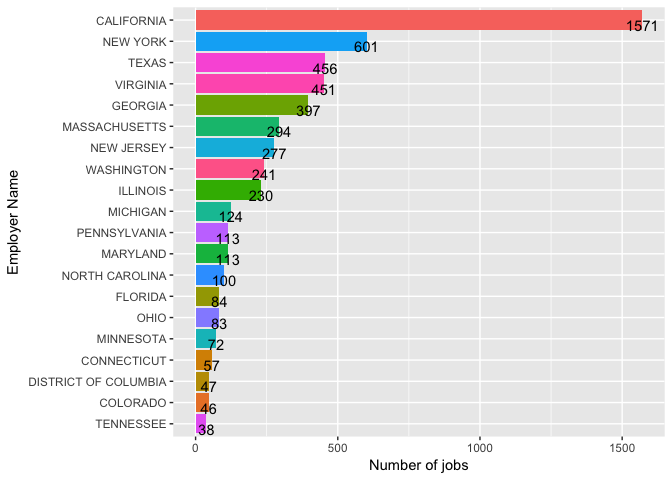
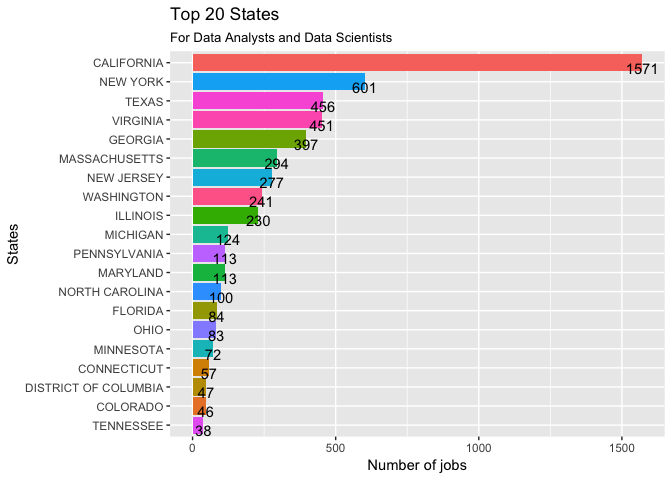
Cleaning up the graphs

diff --git a/H1B.md b/H1B.md
@@ -1,21 +1,21 @@
 H1b Visa
 ================
-2018-01-22
+2018-01-23
 
 A closer look at the H1b visa applications from 2011 to 2016. This is an interesting data set today because of all the talk of cutting back on the number of H1b visas that will be allowed in the upcoming years. Thought this document I will explore the 3002458 rows in this data set.
 
 because this is such a large data set I want to take the time to test the read times between read.csv with stringAsFactors = FALSE and read\_csv from the readr package.
 
     ##    user  system elapsed 
-    ##   8.108   0.352   8.487
+    ##   7.999   0.435   8.821
 
 3002458 rows read\_csv read the 469 MB file into R in under 8 seconds, it also shows the data types meaning I can avoid having to call str(). It takes the standard read.csv 49.353 seconds, this over a 5X speed increase.
 
-Before looking at the data I would like to better understand the process a H1b applicant must take to work in the United States. I found this infographic from (<http://www.immi-usa.com/h1b-application-process-step-by-step-guide/>).
+Before looking at the data I would like to better understand the process a H1b applicant must take to work in the United States. I found this info-graphic from (<http://www.immi-usa.com/h1b-application-process-step-by-step-guide/>).
 
 ![Caption for the picture.](H1B-Application-Process.png)
 
-This dataset is from the website Kaggle.com that being said the data may not be 100 percent correct. Reading the forums on the kaggle website one field I and other found challenging is what does certified- withdrawn, withdrawn , certified and certified withdrawn mean?
+This data set is from the website Kaggle.com that being said the data may not be 100 percent correct. Reading the forums on the kaggle website one field I and other found challenging is what does certified- withdrawn, withdrawn , certified and certified withdrawn mean?
 The metadata says
 **"The CASE\_STATUS field denotes the status of the application after LCA processing. Certified applications are filed with USCIS for H-1B approval. CASE\_STATUS: CERTIFIED does not mean the applicant got his/her H-1B visa approved, it just means that he/she is eligible to file an H-1B"**
 
@@ -37,21 +37,21 @@ ggplot(status, aes(x = reorder(CASE_STATUS, status),
                                 y = status, fill = CASE_STATUS)) + 
                       geom_bar(stat = "identity")  +
                       geom_text(aes(label = status), vjust = 1, hjust = .5) + 
-                      labs(x = "Status", y = "percentage)") +  
+                      labs(x = "Status", y = "Percentage", title = "Case Status") +  
                       theme(legend.position = "none") +
                       coord_flip()
 ```
 
 ![](H1B_files/figure-markdown_github-ascii_identifiers/unnamed-chunk-3-1.png)
 
-87.1 percent of applicants got a certified status from 2011 to 2016. This means that 87.1 percent were told by a company that they would sponcer them if they applied for a visa.
+87.1 percent of applicants got a certified status from 2011 to 2016. This means that 87.1 percent were told by a company that they would sponsor them if they applied for a visa.
 
 I would like to see the top 20 companies that are sponsoring H1B visas.
 ![](H1B_files/figure-markdown_github-ascii_identifiers/unnamed-chunk-4-1.png)
 
 This is the top only the top so making up 18.55 percent of all the employers with H1b applicants.
 
-Lets take a look at where the most H1Bs would working. ![](H1B_files/figure-markdown_github-ascii_identifiers/unnamed-chunk-5-1.png)
+Lets take a look at where the most H1B would working. ![](H1B_files/figure-markdown_github-ascii_identifiers/unnamed-chunk-5-1.png)
 
 Here we can see that the top 3 states California, New York and Texas, are also the states with the largest populations and the largest state GDP in the United States.
 
@@ -59,7 +59,7 @@ Here we can see that the top 3 states California, New York and Texas, are also t
 
 Looking at the cities that are in the top 20 it is the same the largest population in the USA is New York, Houston is number 4 and San Francisco is number 14. The top 5 states New York, Houston, San Francisco, Atlanta and Chicago are also on a list of cities with the highest GDP in the United States.
 
-Lets see what kind of jobs are being offied.
+Lets see what kind of jobs are being offered.
 ![](H1B_files/figure-markdown_github-ascii_identifiers/unnamed-chunk-7-1.png)
 
 The top three are some type of computer programmer, this is interesting because of all the news saying that programming was being done overseas, it is also a good sign that there are that many jobs that need to be filled.
@@ -102,20 +102,25 @@ The salary has not gone up that much there was a median salary increase of 7217.
 
 Above we saw the top 20 job titles now I want to look at jobs that are data scientist or data analyst as I am working on a masters in data science.
 
-There are a total of 5737 rows with these two job titles in this data est. With this data I can get an idea of the pay, locations with the highest need and number of postions per year.
-Agian we will look at the top 20 employers this time only for data analysts and data scientists.
+| JOB\_TITLE     |     n|
+|:---------------|-----:|
+| DATA ANALYST   |  3805|
+| DATA SCIENTIST |  1932|
+
+There are a total of 5737 rows with these two job titles in this data est. With this data I can get an idea of the pay, locations with the highest need and number of positions per year.
+Again we will look at the top 20 employers this time only for data analysts and data scientists.
 ![](H1B_files/figure-markdown_github-ascii_identifiers/unnamed-chunk-14-1.png)
 
-Most of the big name tech componies are on that list but the number of data people is lower than I would have thought.
+Most of the big name tech companies are on that list but the number of data people is lower than I would have thought.
 I want to look what city the jobs are in
 ![](H1B_files/figure-markdown_github-ascii_identifiers/unnamed-chunk-15-1.png)
 
-New York tops the list again here followed close by San Francisco then it is the top United States citys as you go down the list. This is interesting but with such a small data set maybe looking at it by state would be better.
+New York tops the list again here followed close by San Francisco then it is the top United States cites as you go down the list. This is interesting but with such a small data set maybe looking at it by state would be better.
 ![](H1B_files/figure-markdown_github-ascii_identifiers/unnamed-chunk-16-1.png)
 
-Here again I am showing only the top 20 but when I look at the whole data set 46 states had at least one H1b applicant. The state I am from Minnesota is number 16 on the list but with only 72 applicants. California had more than double New York, but this is where most of the big tech componies are located.
+Here again I am showing only the top 20 but when I look at the whole data set 46 states had at least one H1b applicant. The state I am from Minnesota is number 16 on the list but with only 72 applicants. California had more than double New York, but this is where most of the big tech companies are located.
 
-Next lets look at the salory for the data scientest and data analysts.
+Next lets look at the salary for the data scientist and data analysts.
 ![](H1B_files/figure-markdown_github-ascii_identifiers/unnamed-chunk-17-1.png)
 
 |         |
@@ -126,9 +131,9 @@ Next lets look at the salory for the data scientest and data analysts.
 |------:|
 |  63814|
 
-There are some jobs in this data set with low pay under $25000 but the median salory is 63814 USD. This may be lower because I am looking at two different postions data analyst and data scientist. The data scientist role tends to pay a higher wage.
+There are some jobs in this data set with low pay under $25000 but the median salary is 63814 USD. This may be lower because I am looking at two different positions data analyst and data scientist. The data scientist role tends to pay a higher wage.
 
-How has the salory changed over the years from 2011 to 2016?
+How has the salary changed over the years from 2011 to 2016?
 ![](H1B_files/figure-markdown_github-ascii_identifiers/unnamed-chunk-18-1.png)
 
 This is not bad the trend is up more the $10000 and this could be due to high pay for data scientists in the past year as the market picked up.
@@ -136,9 +141,9 @@ This is not bad the trend is up more the $10000 and this could be due to high pa
 **Because I am working on a Masters in Data Science in Minnesota I would like to look at the data for only my home state.**
 ![](H1B_files/figure-markdown_github-ascii_identifiers/unnamed-chunk-19-1.png)
 
-Looking at the map most are located in the Twin Cities metro but when I look at the data set there are 2465 locations that do no have a latitude and longitude. A quick look at some of the lacations that are missing I see places that are not in the metro like Grand Rapids, Pipestone, Red Wing and Alexandria.
+Looking at the map most are located in the Twin Cities metro but when I look at the data set there are 2465 locations that do no have a latitude and longitude. A quick look at some of the locations that are missing I see places that are not in the metro like Grand Rapids, Pipestone, Red Wing and Alexandria.
 
 Lets see what the top employers are in Minnesota.
 ![](H1B_files/figure-markdown_github-ascii_identifiers/unnamed-chunk-20-1.png)
 
-The top employer is Tata Consultancy Services Limited, Infosys Limited, Wipro Limited and Accenture LLP are all employment agencies that place people at different worksites. The Mayo Clinic is a large employer in Rochester Minnesota. The Univercity of Minnesota has also sponsered a lot of people but when you look at the list it looks like it is students, researchers, people working on thier postdoctoral and assistant professor.
+The top employer is Tata Consultancy Services Limited, Infosys Limited, Wipro Limited and Accenture LLP are all employment agencies that place people at different work sites. The Mayo Clinic is a large employer in Rochester Minnesota. The University of Minnesota has also sponsored a lot of people but when you look at the list it looks like it is students, researchers, people working on their postdoctoral and assistant professor.
